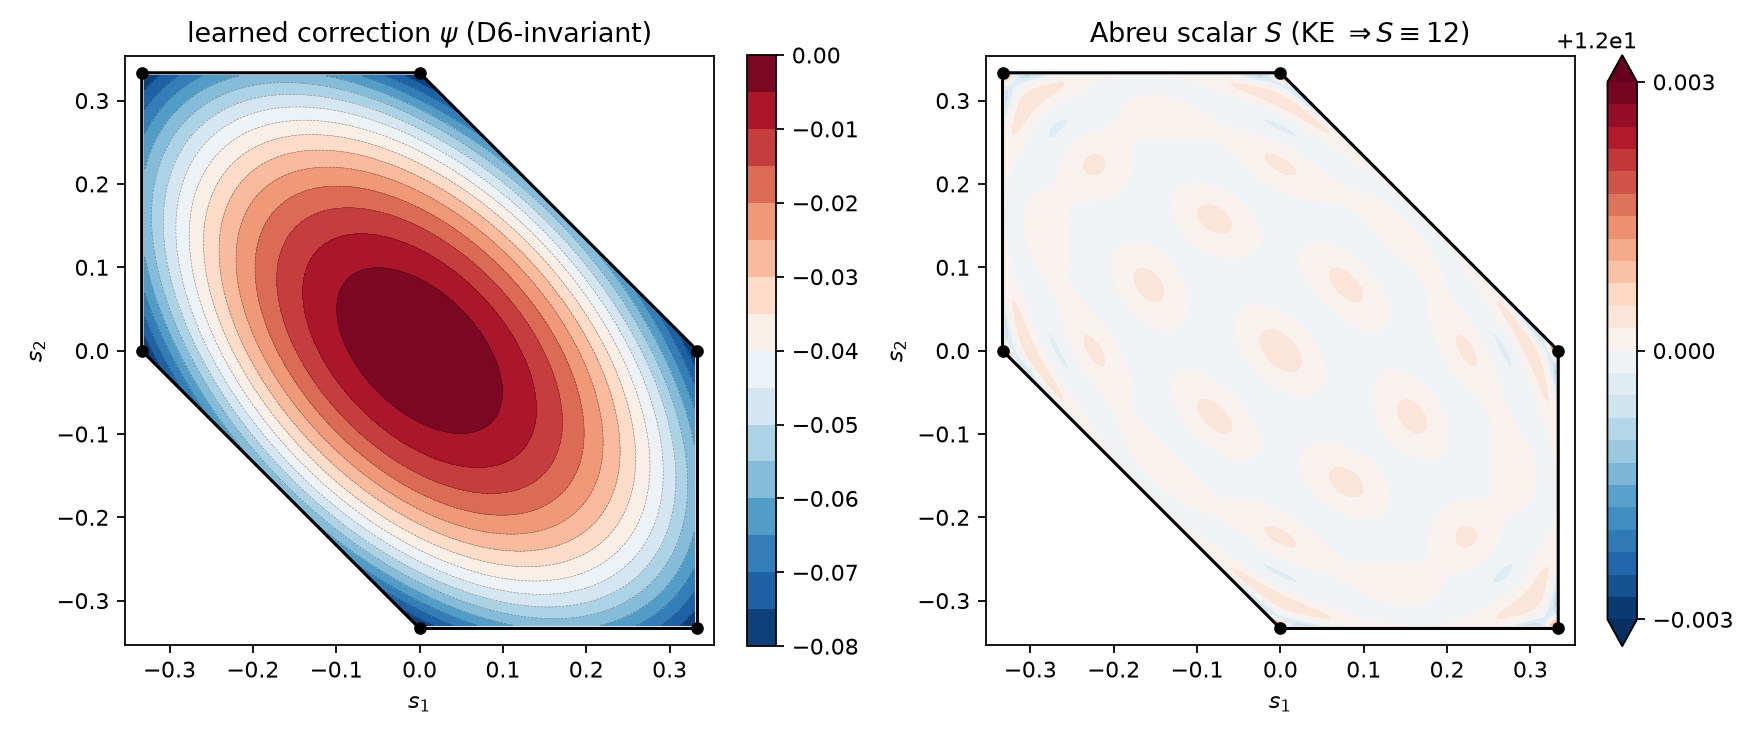
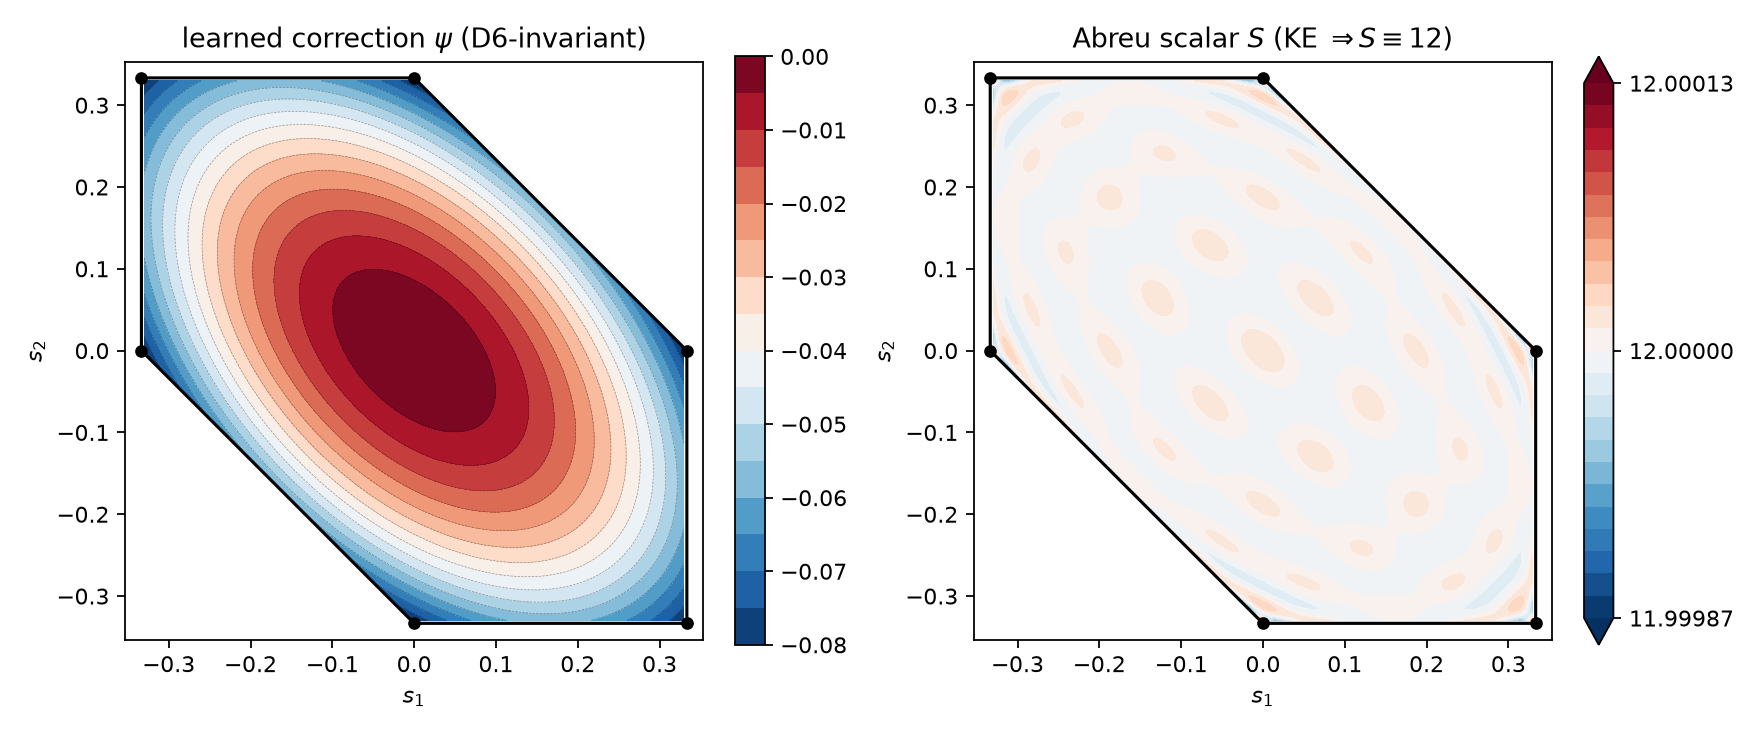
Sync with the current draft: figure pipeline, cache, README identity
figures.py now produces the figures the paper embeds, rather than a combined
plot nothing used: the dP3 eigenvalue bar chart is dropped (the paper dropped
that figure -- at 0.01% and 0.62% the bars were indistinguishable and the table
carried it better), and the calibration panel is written as fig_quadrature.png.
Each figure is written to the draft tree as well when that tree is present, so
one run keeps the two copies in step; the release has no draft tree and writes
only its own copy.

The two costly blocks -- the 240x240 Abreu grid and the quadrature calibration
-- are cached in figures_cache.npz (gitignored), keyed on a stamp covering the
persisted metric, the grid size and the three sweeps. A cold run is ~9 minutes,
a warm one 3 seconds; a stale stamp recomputes and says so.

README named a different title, a single author and a different venue.

diff --git a/experiments/dp3/figures.py b/experiments/dp3/figures.py
@@ -1,9 +1,24 @@
 """Figures for the dP3 note: learned psi + Abreu S on the hexagon, and the
-Laplacian lambda1 grading against DHHKW (with the conifold closed-form anchor).
+quadrature calibration on the conifold closed-form anchor.
+
+The dP3 eigenvalues lambda1, lambda2 are still computed and printed -- they are
+the numbers the paper quotes in sections 2.3 and 4.3 -- but they are no longer
+plotted.  The bar chart that compared them with DHHKW was dropped from the
+paper: at 0.01% and 0.62% the two pairs of bars were indistinguishable, so the
+figure carried nothing that table 8 does not carry better.
+
+Each figure is written both here and into the draft directory, so that the
+script can regenerate the figures the paper actually embeds.
 
 Usage: PYTHONPATH=. python experiments/dp3/figures.py
 """
+# The draft tree is written to as well when it is present, so that one run
+# regenerates the figures the paper embeds.  It is absent in the code release,
+# and then only the local copy is written.
+DRAFT = "writing/paper1-new/"
 import jax
+import sys
+
 import jax.numpy as jnp
 import matplotlib
 
@@ -30,11 +45,44 @@ BLUE, RED = "#4c72b0", "#c44e52"
 # --------------------------------------------------- load the persisted dP3
 # The artifact IS the metric quoted in the paper; refitting here would risk
 # drifting from it (and, before 2026-07-26, silently refit at truncated rank).
-NPZ = (Path(__file__).resolve().parents[1] / "dp3smooth" / "dp3_G_deg14.npz")
+NPZ = (Path(__file__).resolve().parents[1] / "dp3smooth" / "dp3_G_deg18.npz")
 psi, ch, _dat = load_psi_dp3(NPZ)
 group = dihedral_matrices(ch.verts_s)
 print(f"dP3 deg-{int(_dat['degree'])}: {_dat['W'].shape[1]} params, "
       f"held-out loss {float(_dat['loss_test']):.2e}")
+
+
+# ------------------------------------------------------------------- cache
+# The two costly blocks -- the Abreu grid and the quadrature calibration --
+# together take minutes, which makes re-plotting (a legend, a colour, a label)
+# far more expensive than it should be.  They are cached in an npz keyed on
+# every input they depend on: the persisted metric, the grid size, and the
+# three sweeps.  Any change to those, or --refresh, recomputes.
+GRID = 240
+CLOUD, NGL = 40000, 24   # MC cloud for basis conditioning; GL nodes/tri
+MC_N = [2500, 5000, 10000, 20000, 40000, 80000]
+GL_NGL = [4, 8, 12, 16, 24, 32]
+CACHE = Path(__file__).resolve().parent / "figures_cache.npz"
+REFRESH = "--refresh" in sys.argv
+_st = NPZ.stat()
+STAMP = "|".join(map(str, (_st.st_mtime_ns, _st.st_size, GRID, CLOUD, NGL,
+                           MC_N, GL_NGL, 6, 20)))
+_c = None
+if CACHE.exists() and not REFRESH:
+    _z = np.load(CACHE, allow_pickle=False)
+    if str(_z["stamp"]) == STAMP:
+        _c = _z
+        print(f"cache hit: {CACHE.name} (pass --refresh to recompute)")
+    else:
+        print("cache stamp differs from the current inputs; recomputing")
+
+
+def _targets(name):
+    """Where a figure is written: here always, the draft tree if it exists."""
+    out = ["experiments/dp3/" + name]
+    if Path(DRAFT).is_dir():
+        out.append(DRAFT + name)
+    return out
 
 
 def abreu_S(s):
@@ -47,16 +95,19 @@ def abreu_S(s):
 # ------------------------------------------------------------- grid on hexagon
 verts = np.array(ch.verts_s)
 lo, hi = verts.min(0) - 0.02, verts.max(0) + 0.02
-gx = np.linspace(lo[0], hi[0], 240)
-gy = np.linspace(lo[1], hi[1], 240)
+gx = np.linspace(lo[0], hi[0], GRID)
+gy = np.linspace(lo[1], hi[1], GRID)
 GX, GY = np.meshgrid(gx, gy)
-pts = jnp.array(np.stack([GX.ravel(), GY.ravel()], axis=1))
-inside = jax.vmap(lambda s: ch.cone.is_interior(t_of_s(ch, s), 1e-3))(pts)
-inside = np.array(inside).reshape(GX.shape)
-Zpsi = np.array(jax.vmap(psi)(pts)).reshape(GX.shape)
-ZS = np.array(jax.vmap(abreu_S)(pts)).reshape(GX.shape)
-Zpsi[~inside] = np.nan
-ZS[~inside] = np.nan
+if _c is not None:
+    inside, Zpsi, ZS = _c["inside"], _c["Zpsi"], _c["ZS"]
+else:
+    pts = jnp.array(np.stack([GX.ravel(), GY.ravel()], axis=1))
+    inside = jax.vmap(lambda s: ch.cone.is_interior(t_of_s(ch, s), 1e-3))(pts)
+    inside = np.array(inside).reshape(GX.shape)
+    Zpsi = np.array(jax.vmap(psi)(pts)).reshape(GX.shape)
+    ZS = np.array(jax.vmap(abreu_S)(pts)).reshape(GX.shape)
+    Zpsi[~inside] = np.nan
+    ZS[~inside] = np.nan
 _dev = np.abs(ZS[inside] / 12.0 - 1.0)
 print(f"Abreu S on the plotted region: max |S/12-1| = {_dev.max() * 100:.4f}%, "
       f"mean {_dev.mean() * 100:.5f}%  ({inside.sum()} grid points)")
@@ -78,21 +129,26 @@ a1.contour(GX, GY, Zpsi, levels=18, colors="k", linewidths=0.3, alpha=0.4)
 hexagon(a1)
 fig.colorbar(c1, ax=a1, fraction=0.046)
 a1.set_title(r"learned correction $\psi$ (D6-invariant)")
-# Window must CONTAIN the worst deviation (0.019% of 12 = 0.0023), or the extreme
-# points saturate the colour scale and the caption's number is invisible.
-c2 = a2.contourf(GX, GY, ZS, levels=np.linspace(11.997, 12.003, 25), cmap="RdBu_r",
+# Window must CONTAIN the worst deviation, or the extreme points saturate the
+# colour scale and the caption's number is invisible.  DERIVED from the measured
+# deviation, not hardcoded: a fixed window silently belongs to whichever rung it
+# was tuned on (a hardcoded +-0.003 for deg-14 outlived the switch to deg-18 and
+# left the caption quoting the wrong metric's accuracy).
+_w = 1.15 * _dev.max() * 12.0
+print(f"Abreu colour window: 12 +- {_w:.2e}  (caption must quote "
+      f"[{12 - _w:.5f}, {12 + _w:.5f}])")
+c2 = a2.contourf(GX, GY, ZS, levels=np.linspace(12 - _w, 12 + _w, 25), cmap="RdBu_r",
                  extend="both")
 hexagon(a2)
-fig.colorbar(c2, ax=a2, fraction=0.046, ticks=[11.997, 12.0, 12.003])
+fig.colorbar(c2, ax=a2, fraction=0.046, ticks=[12 - _w, 12.0, 12 + _w],
+             format="%.5f")
 a2.set_title(r"Abreu scalar $S$ (KE $\Rightarrow S\equiv 12$)")
 fig.tight_layout()
-fig.savefig("experiments/dp3/fig_dp3_learned.png", dpi=160)
-print("wrote fig_dp3_learned.png")
+for _p in _targets("fig_dp3_learned.png"):
+    fig.savefig(_p, dpi=160)
+    print("wrote", _p)
 
 # ------------------------------------------------------------- lambda grading
-CLOUD, NGL = 40000, 24  # MC cloud for basis conditioning; GL nodes/tri for integ.
-
-
 def poly_basis(degree, samples, tol=1e-9):
     pw = [(i, j) for tot in range(degree + 1) for i in range(tot + 1) for j in [tot - i]]
     raw = lambda s: jnp.stack([s[0] ** i * s[1] ** j for i, j in pw])
@@ -119,44 +175,54 @@ def sym_basis(degree, samples, tol=1e-12):
 
 
 # conifold anchor: convergence of |lambda1 - 6| for Monte-Carlo vs deterministic
-# quadrature.  MC falls only as N^{-1/2} (variance + boundary-exclusion bias, RMS
-# over seeds), still ~0.3% at 8e4 points; deterministic polygon quadrature reaches
-# machine precision with a few hundred nodes.
+# quadrature.  MC is the RMS over seeds, so it carries the boundary-exclusion
+# bias as well as the variance; measured, it falls as N^{-0.69} across this
+# range and is still ~0.3% at 8e4 points.  Deterministic polygon quadrature
+# reaches machine precision with a few hundred nodes.
 chc = slice_chart(conifold(), B_CONIFOLD)
 uc = slice_potential(chc, lambda s: 0.0)
 
-mc_N = [2500, 5000, 10000, 20000, 40000, 80000]
-mc_err = []  # RMS error over seeds = sqrt(bias^2 + variance): one positive number,
-             # no log-axis underflow (a symmetric std whisker would dive to ~0)
-for N in mc_N:
-    vals = []
-    for seed in range(8):
-        smp = sample_slice(jax.random.PRNGKey(seed), chc, N, eps=1e-4)
-        vals.append(float(laplace_spectrum(uc, poly_basis(6, smp), smp)[1]))
-    vals = np.array(vals)
-    mc_err.append(float(np.sqrt(np.mean((vals - 6.0) ** 2))))
+mc_N = MC_N
+if _c is not None:
+    mc_err, q_pts, q_err = list(_c["mc_err"]), list(_c["q_pts"]), list(_c["q_err"])
+    l1, l2 = float(_c["l1"]), float(_c["l2"])
+else:
+    mc_err = []  # RMS error over seeds = sqrt(bias^2 + variance): one positive
+                 # number, no log-axis underflow (a symmetric std whisker would
+                 # dive to ~0)
+    for N in mc_N:
+        vals = []
+        for seed in range(8):
+            smp = sample_slice(jax.random.PRNGKey(seed), chc, N, eps=1e-4)
+            vals.append(float(laplace_spectrum(uc, poly_basis(6, smp), smp)[1]))
+        vals = np.array(vals)
+        mc_err.append(float(np.sqrt(np.mean((vals - 6.0) ** 2))))
+
+    # deterministic: basis conditioned on one cloud, integrated on the GL nodes
+    basis_c = poly_basis(6, sample_slice(jax.random.PRNGKey(5), chc, CLOUD, eps=1e-4))
+    q_pts, q_err = [], []
+    for ngl in GL_NGL:
+        nodes, wts = polygon_quadrature(chc.verts_s, ngl=ngl)
+        lam = float(laplace_spectrum(uc, basis_c, nodes, weights=wts)[1])
+        q_pts.append(int(nodes.shape[0]))
+        q_err.append(max(abs(lam - 6.0), 1e-16))   # floor for the log axis
+
+    # dP3 lambda1, lambda2 (deterministic integration, reconciled to DHHKW)
+    u = slice_potential(ch, psi)
+    smp = sample_slice(jax.random.PRNGKey(5), ch, CLOUD, eps=1e-4)
+    nodes, wts = polygon_quadrature(ch.verts_s, ngl=NGL)
+    w = laplace_spectrum(u, sym_basis(20, smp), nodes, weights=wts)
+    l1, l2 = float(w[1]) * 4 / 12, float(w[2]) * 4 / 12
+
+    np.savez_compressed(CACHE, stamp=STAMP, inside=inside, Zpsi=Zpsi, ZS=ZS,
+                        mc_err=np.array(mc_err), q_pts=np.array(q_pts),
+                        q_err=np.array(q_err), l1=l1, l2=l2)
+    print(f"wrote {CACHE}")
 print("MC RMS|lam1-6| vs N:", [f"{e:.1e}" for e in mc_err])
-
-# deterministic: basis conditioned on one cloud, integrated on the GL nodes
-basis_c = poly_basis(6, sample_slice(jax.random.PRNGKey(5), chc, CLOUD, eps=1e-4))
-gl_ngl = [4, 8, 12, 16, 24, 32]
-q_pts, q_err = [], []
-for ngl in gl_ngl:
-    nodes, wts = polygon_quadrature(chc.verts_s, ngl=ngl)
-    lam = float(laplace_spectrum(uc, basis_c, nodes, weights=wts)[1])
-    q_pts.append(nodes.shape[0])
-    q_err.append(max(abs(lam - 6.0), 1e-16))   # floor for the log axis
 print("quad |lam1-6| vs pts:", [f"{e:.1e}" for e in q_err])
-
-# dP3 lambda1, lambda2 (deterministic integration, reconciled to DHHKW)
-u = slice_potential(ch, psi)
-smp = sample_slice(jax.random.PRNGKey(5), ch, CLOUD, eps=1e-4)  # basis conditioning
-nodes, wts = polygon_quadrature(ch.verts_s, ngl=NGL)
-w = laplace_spectrum(u, sym_basis(20, smp), nodes, weights=wts)
-l1, l2 = float(w[1]) * 4 / 12, float(w[2]) * 4 / 12
 print(f"dP3 lambda1={l1:.6f} (DHHKW 6.322), lambda2={l2:.5f} (DHHKW 17.2)")
 
-fig, (a1, a2) = plt.subplots(1, 2, figsize=(11, 4.4))
+fig, a1 = plt.subplots(figsize=(5.5, 4.4))
 a1.plot(mc_N, mc_err, "o-", color=BLUE, label="Monte-Carlo (RMS over 8 seeds)")
 a1.plot(q_pts, q_err, "s-", color=RED, label="deterministic quadrature")
 a1.set_xscale("log")
@@ -164,17 +230,11 @@ a1.set_yscale("log")
 a1.set_xlabel(r"integration points")
 a1.set_ylabel(r"error in $\lambda_1$  (conifold, exact $=6$)")
 a1.set_title(r"anchor: conifold $\mathrm{CP}^1\times\mathrm{CP}^1$")
-a1.legend(fontsize=9, loc="lower left")
-x = np.arange(2)
-a2.bar(x - 0.2, [l1, l2], 0.4, color=RED, label="ours (learned)")
-a2.bar(x + 0.2, [6.322, 17.2], 0.4, color=BLUE, label="DHHKW (numerical KE)")
-for i, (o, d) in enumerate([(l1, 6.322), (l2, 17.2)]):
-    a2.text(i, max(o, d) + 0.5, f"{abs(o/d-1)*100:.2f}%", ha="center", fontsize=9)
-a2.set_xticks(x)
-a2.set_xticklabels([r"$\lambda_1$", r"$\lambda_2$"])
-a2.set_ylabel(r"eigenvalue (DHHKW normalization)")
-a2.set_title(r"dP3 $D6$-invariant Laplacian spectrum")
-a2.legend(fontsize=9)
+# The two series occupy the upper right (MC, y > 1e-2) and the lower left
+# (quadrature, x < 5e3).  Both corners on the diagonal between them are
+# therefore taken; the empty band is the middle left, around y ~ 1e-7.
+a1.legend(fontsize=9, loc="center left")
 fig.tight_layout()
-fig.savefig("experiments/dp3/fig_dp3_lambda.png", dpi=160)
-print("wrote fig_dp3_lambda.png")
+for _p in _targets("fig_quadrature.png"):
+    fig.savefig(_p, dpi=160)
+    print("wrote", _p)

diff --git a/README.md b/README.md
@@ -1,8 +1,7 @@
 # toric-se-ml
 
-Code accompanying **"Machine-learned toric Sasaki--Einstein metrics: a
-validated pipeline with two-sided sensitivity"** (N. Kim, submitted to
-*Machine Learning: Science and Technology*).
+Code accompanying **"Learning Toric Sasaki--Einstein metrics"**, by Nakwoo
+Kim, Sejin Kim and Hoseob Shin (in preparation).
 
 This repository contains exactly the code the paper's results depend on: a
 pipeline that learns the symplectic potential of a toric Ricci-flat Kähler
